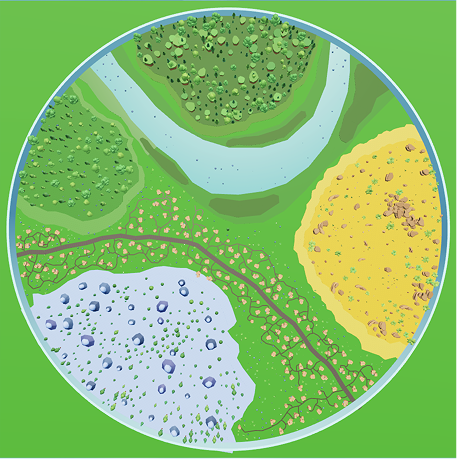
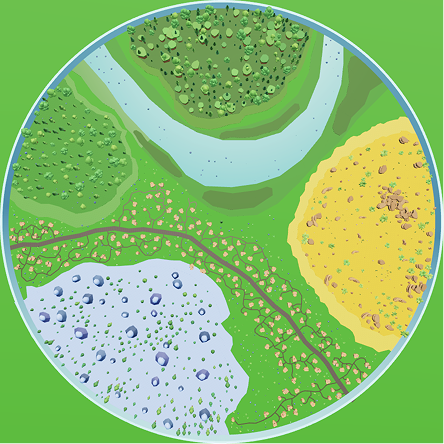
refactor: remove unused assets and update Minimap components; replace circle, map_crosshair, and map_cursor images with world_bg asset in Minimap2; enhance MinimapNodes for improved soldier representation

diff --git a/src/client/components/game/minimap/MinimapNodes.tsx b/src/client/components/game/minimap/MinimapNodes.tsx
@@ -1,19 +1,58 @@
 import { useInterval } from "@rbxts/pretty-react-hooks";
 import React, { Element, useState } from "@rbxts/react";
-import { CanvasGroup, Image } from "@rbxts-ui/primitives";
+import { CanvasGroup, Frame } from "@rbxts-ui/primitives";
 import { useObserverPosition, useStore } from "client/hooks";
-import assets from "shared/assets";
+import { useRem } from "client/ui/rem/useRem";
 import { palette } from "shared/constants/palette";
+import { cornerRadiusFull } from "shared/constants/sizes";
 import { getWallSkin } from "shared/constants/skins";
 import { selectLocalSoldierId, selectSoldiersById, selectSoldierSkin } from "shared/store/soldiers";
 
 import { normalizeToWorldBounds } from "./utils";
 
-export function MinimapNodes() {
+const SoldierNode = ({ id, color, sizePx, pos }: { id: string; color: Color3; sizePx: number; pos: Vector2 }) => {
+	const rem = useRem();
+
+	return (
+		<Frame
+			key={`soldier-${id}`}
+			backgroundColor={color}
+			backgroundTransparency={0.3}
+			cornerRadius={new UDim(1, 0)}
+			size={new UDim2(0, sizePx, 0, sizePx)}
+			position={new UDim2(pos.X, 0, pos.Y, 0)}
+			anchorPoint={new Vector2(0.5, 0.5)}
+		>
+			<uicorner CornerRadius={cornerRadiusFull} />
+			<uistroke Color={palette.black} Transparency={0} Thickness={rem(0.1)} />
+		</Frame>
+	);
+};
+
+function LocalSoldierNode({ sizePx }: { sizePx: number }) {
 	const store = useStore();
 	const observerPosition = useObserverPosition();
 
+	const localId = store.getState(selectLocalSoldierId);
+	if (localId === undefined) return undefined;
+
+	const skinId = store.getState(selectSoldierSkin(localId));
+	const color = skinId !== undefined ? getWallSkin(skinId).tint : palette.offwhite;
+
+	if (observerPosition === undefined) return undefined;
+	const pos = normalizeToWorldBounds(observerPosition);
+
+	return <SoldierNode key={`soldier-${localId}`} id={localId} color={color} sizePx={sizePx} pos={pos} />;
+}
+
+export function MinimapNodes() {
+	const rem = useRem();
+	const store = useStore();
+
 	const [nodes, setNodes] = useState<Element[]>([]);
+
+	const enemySize = rem(0.5);
+	const localSize = rem(1);
 
 	const update = () => {
 		const nodes: Element[] = [];
@@ -27,17 +66,16 @@ export function MinimapNodes() {
 			const skinId = store.getState(selectSoldierSkin(soldier.id));
 			const color = skinId !== undefined ? getWallSkin(skinId).tint : palette.offwhite;
 			const isLocal = soldier.id === localId;
-			const sizePx = isLocal ? 5 : 3;
+			const sizePx = isLocal ? localSize : enemySize;
 
 			if (!isLocal) {
 				nodes.push(
-					<Image
+					<SoldierNode
 						key={`soldier-${soldier.id}`}
-						image={assets.ui.circle}
-						imageColor3={color}
-						anchorPoint={new Vector2(0.5, 0.5)}
-						size={new UDim2(0, sizePx, 0, sizePx)}
-						position={new UDim2(pos.X, 0, pos.Y, 0)}
+						id={soldier.id}
+						color={color}
+						sizePx={sizePx}
+						pos={pos}
 					/>,
 				);
 			}
@@ -50,31 +88,16 @@ export function MinimapNodes() {
 
 	return (
 		<CanvasGroup
-			groupTransparency={0.5}
 			backgroundTransparency={1}
 			cornerRadius={new UDim(1, 0)}
 			size={new UDim2(1, 0, 1, 0)}
+			position={new UDim2(0.5, 0, 0.5, 0)}
+			anchorPoint={new Vector2(0.5, 0.5)}
+			clipsDescendants={true}
 		>
+			<uicorner CornerRadius={cornerRadiusFull} />
 			{nodes}
-			{(() => {
-				const localId = store.getState(selectLocalSoldierId);
-				if (localId === undefined) return undefined;
-				const skinId = store.getState(selectSoldierSkin(localId));
-				const color = skinId !== undefined ? getWallSkin(skinId).tint : palette.offwhite;
-				const current = observerPosition;
-				if (current === undefined) return undefined;
-				const pos = normalizeToWorldBounds(current);
-				return (
-					<Image
-						key={`soldier-${localId}`}
-						image={assets.ui.circle}
-						imageColor3={color}
-						anchorPoint={new Vector2(0.5, 0.5)}
-						size={new UDim2(0, 5, 0, 5)}
-						position={new UDim2(pos.X, 0, pos.Y, 0)}
-					/>
-				);
-			})()}
+			<LocalSoldierNode sizePx={localSize} />
 		</CanvasGroup>
 	);
 }

diff --git a/src/client/components/game/minimap/Minimap2.tsx b/src/client/components/game/minimap/Minimap2.tsx
@@ -34,19 +34,13 @@ export function Minimap() {
 					shadowTransparency={0}
 				/>
 
-				<Frame
-					backgroundColor={palette.white}
+				<Image
+					image={assets.ui.world_bg}
 					cornerRadius={cornerRadius}
 					size={new UDim2(1, 0, 1, 0)}
-					backgroundTransparency={0}
-				>
-					<uigradient
-						Color={new ColorSequence(palette.crust, palette.mantle)}
-						Transparency={new NumberSequence(0.3, 0.1)}
-						Rotation={-45}
-					/>
-					<uistroke Color={palette.lavender} Transparency={0.9} Thickness={rem(0.25)} />
-				</Frame>
+					scaleType="Fit"
+					rotation={180}
+				/>
 
 				<Frame
 					backgroundTransparency={1}
@@ -56,13 +50,6 @@ export function Minimap() {
 				>
 					<uistroke Color={palette.text} Transparency={0.85} Thickness={rem(0.05)} />
 				</Frame>
-
-				<Image
-					image={assets.ui.map_crosshair}
-					anchorPoint={new Vector2(0.5, 0.5)}
-					size={new UDim2(0, rem(1), 0, rem(1))}
-					position={new UDim2(0.5, 0, 0.5, 0)}
-				/>
 
 				<MinimapNodes />
 				<Outline cornerRadius={cornerRadius} innerTransparency={0} outerTransparency={1} />

diff --git a/src/shared/assets.d.ts b/src/shared/assets.d.ts
@@ -34,7 +34,6 @@ declare const assets: {
 		backdrop: string
 		blur: string
 		button_glow_top: string
-		circle: string
 		clouds_bg: string
 		crystals: {
 			crystals_1: string
@@ -54,8 +53,6 @@ declare const assets: {
 			store: string
 		}
 		leader_pointer: string
-		map_crosshair: string
-		map_cursor: string
 		menu_title: string
 		patterns: {
 			dots_pattern: string
